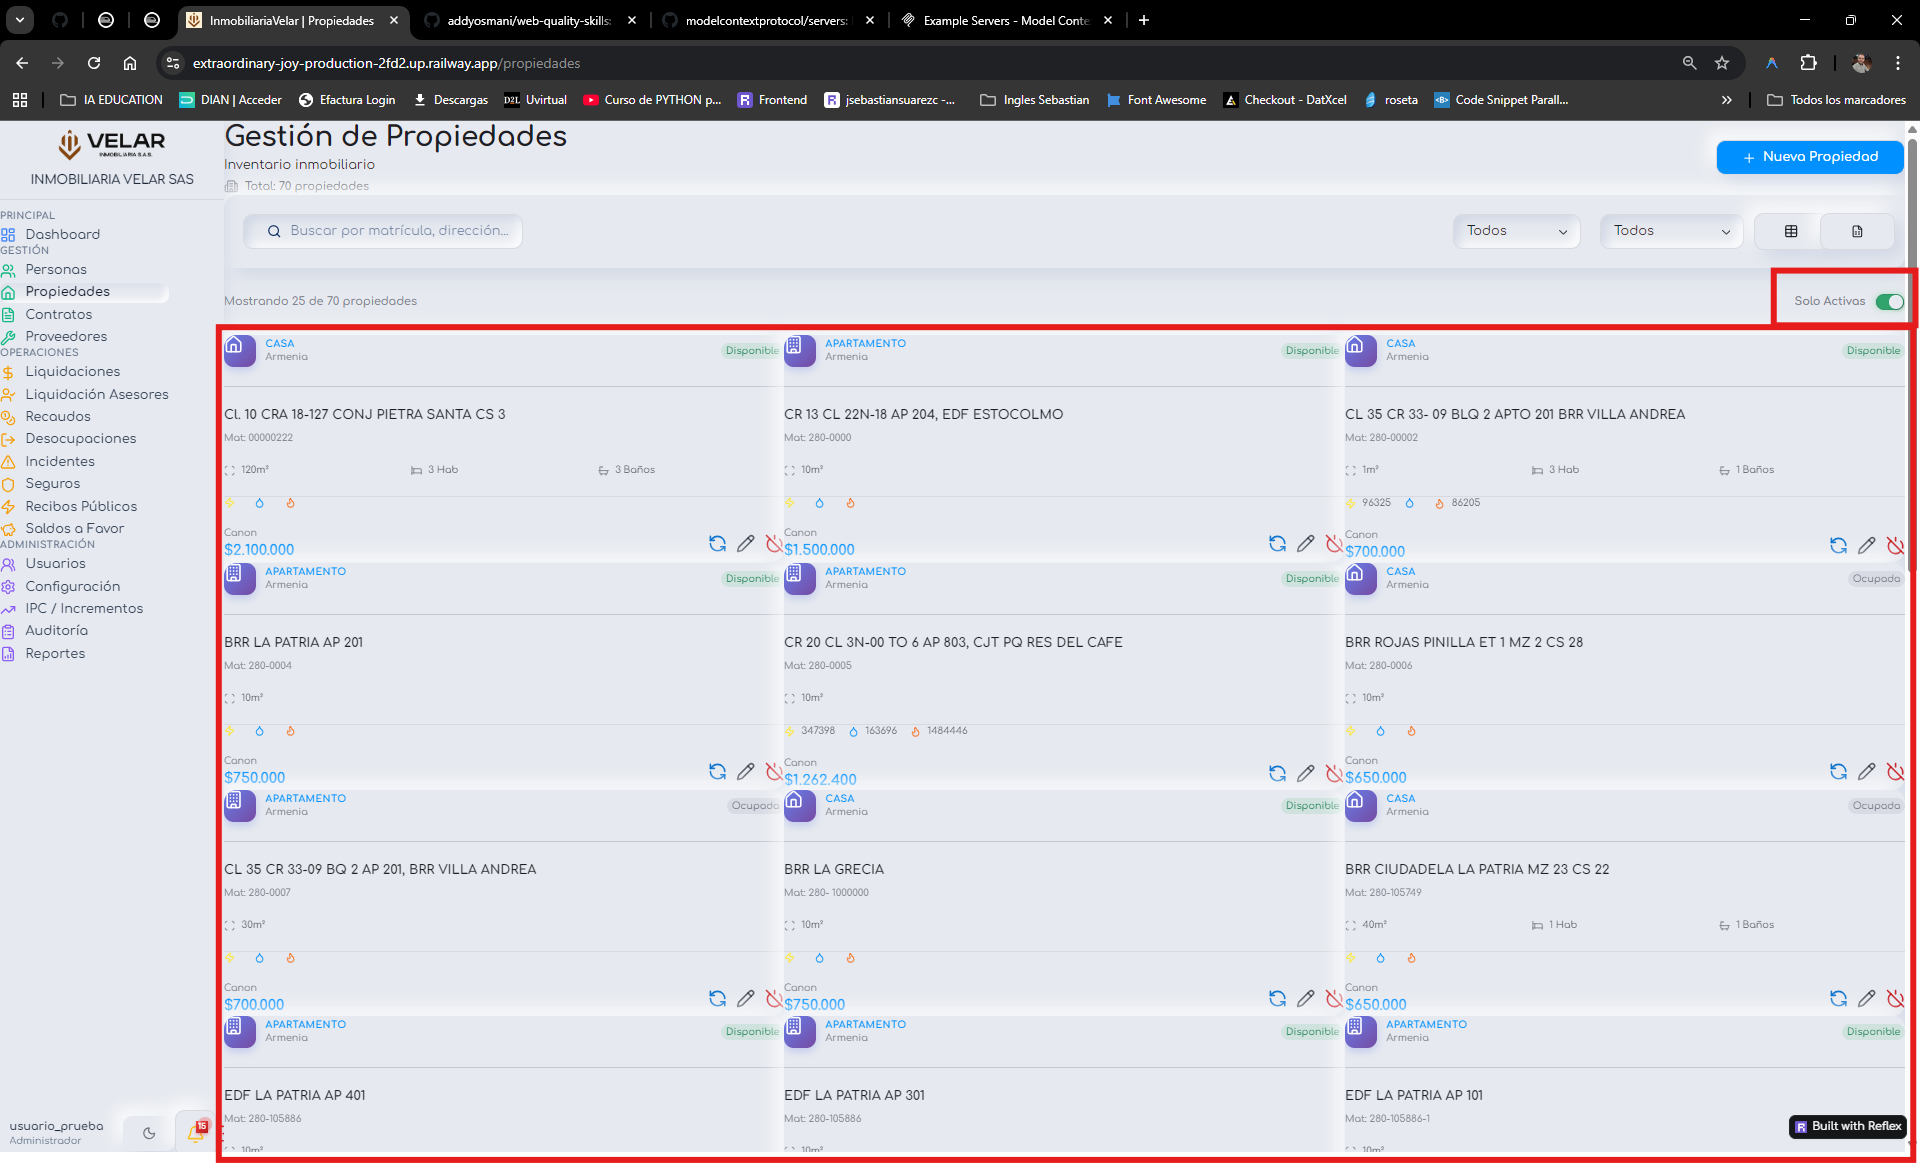
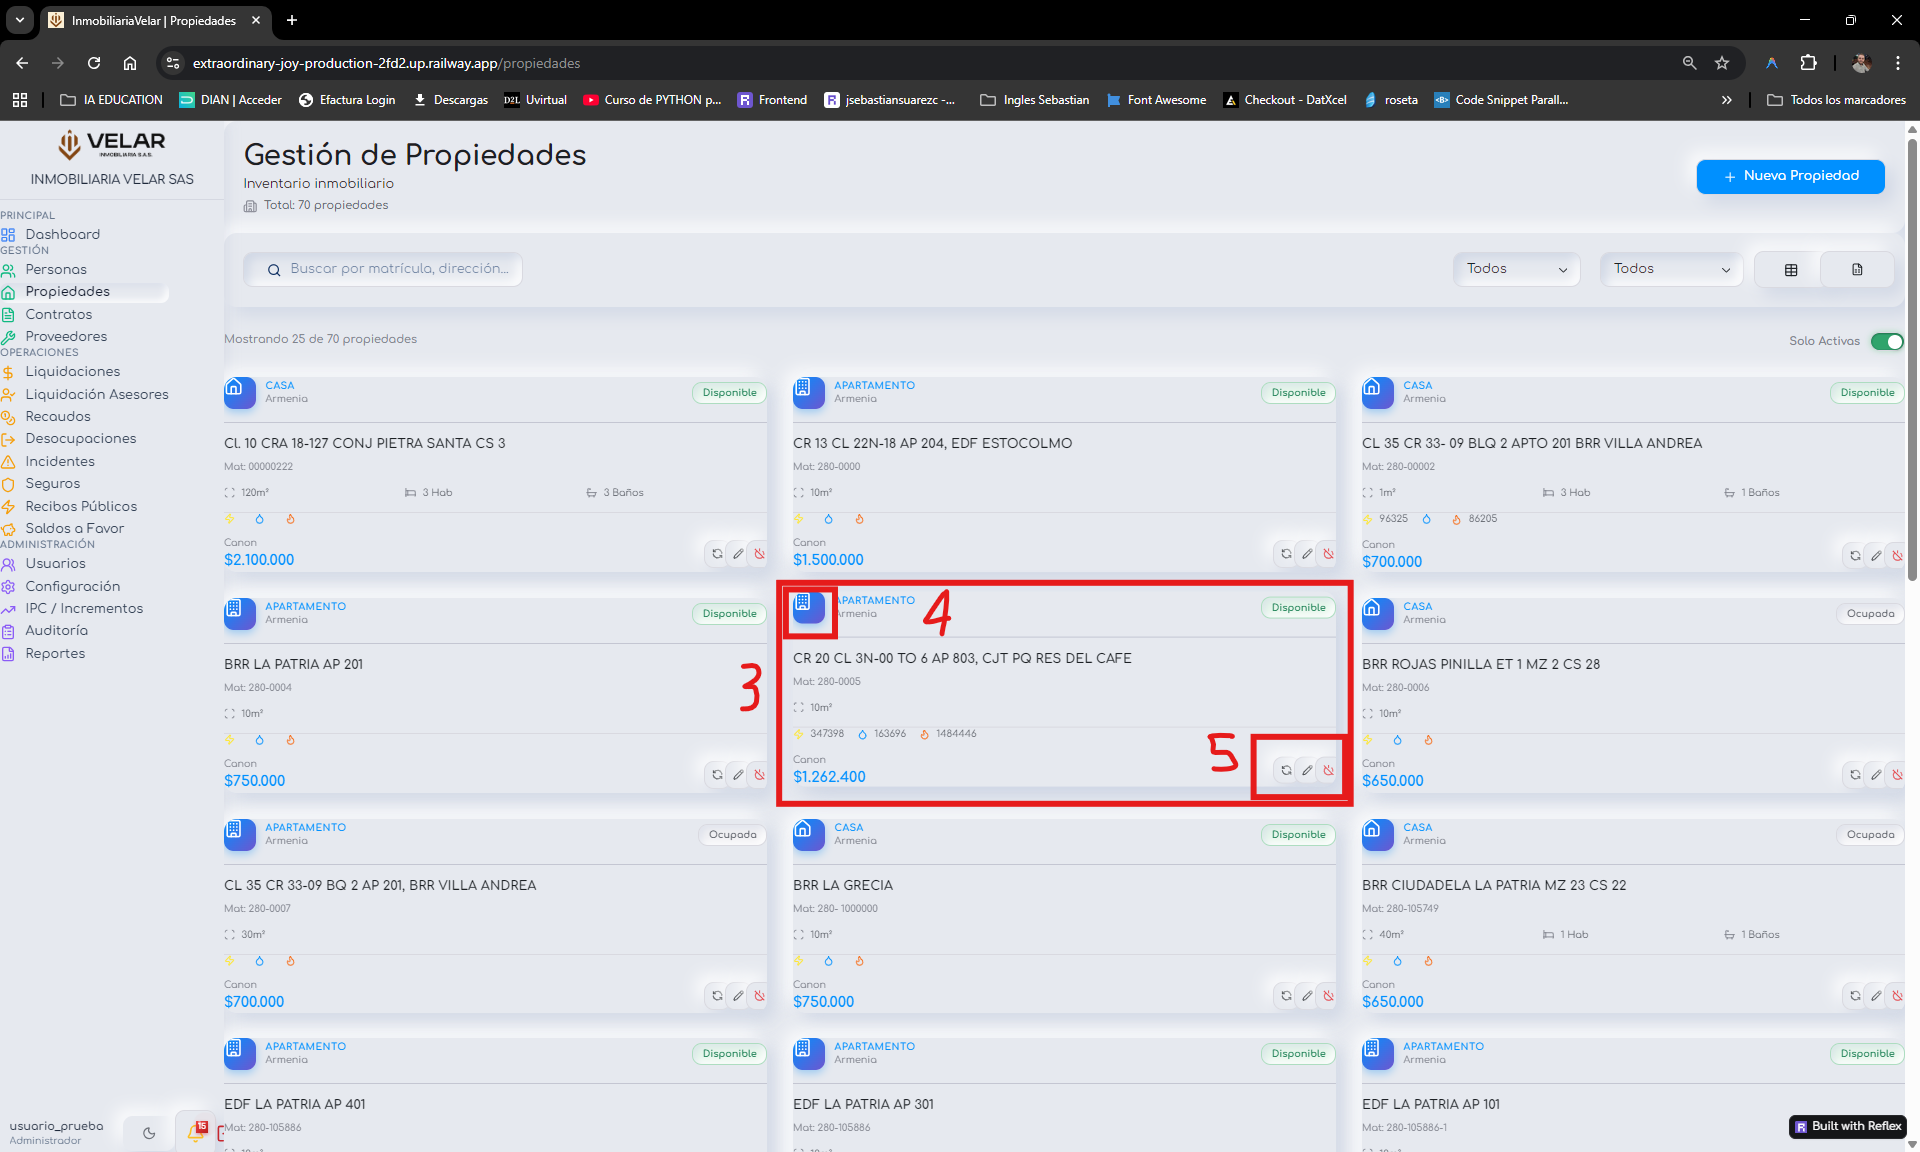
style(ui): Ajusta el espaciado y márgenes en las tarjetas principales
- Incrementa el padding y gap en los modulares de person_card y property_card para mejorar la legilibidad y dar aire al diseño neumórfico.
- Ajusta el espacio (spacing) entre badges y botones de acción.
- Remueve padding nulo innecesario en property_card que colapsaba contenedores.

Estas modificaciones consolidan el sistema 'Neumorphism Executive' asegurando una distribución balanceada de elementos en pantalla.

diff --git a/src/presentacion_reflex/pages/personas.py b/src/presentacion_reflex/pages/personas.py
@@ -476,7 +476,7 @@ def personas_page() -> rx.Component:
                                                                 content="Eliminar persona",
                                                             ),
                                                         ),
-                                                        spacing="1",
+                                                        spacing="3",
                                                     )
                                                 ),
                                                 _hover={
@@ -513,7 +513,7 @@ def personas_page() -> rx.Component:
                                 rx.grid(
                                     rx.foreach(PersonasState.personas, person_card),
                                     columns=rx.breakpoints(initial="1", sm="1", md="2", lg="3"),
-                                    gap="5",
+                                    gap="6",
                                     width="100%",
                                     padding="4",
                                 ),

diff --git a/src/presentacion_reflex/components/propiedades/property_card.py b/src/presentacion_reflex/components/propiedades/property_card.py
@@ -321,7 +321,7 @@ def property_card(
                                     ),
                                     content=rx.cond(estado_registro, "Desactivar", "Activar"),
                                 ),
-                                spacing="2",
+                                spacing="3",
                             ),
                         ),
                     spacing="3",
@@ -330,8 +330,8 @@ def property_card(
                 align="center",
                 margin_top="4", 
             ),
-            spacing="4", 
-            padding="5", 
+            spacing="5", 
+            padding="6", 
             width="100%",
         ),
         # Elite Card Styling - Neumorphic Raised
@@ -341,7 +341,6 @@ def property_card(
         margin="auto",
         style={
             **styles.NEU_PANEL_STYLE,
-            "padding": "0",
             "transition": "all 0.4s cubic-bezier(0.2, 0.8, 0.2, 1)",
             "overflow": "hidden",
             "border": "none",

diff --git a/src/presentacion_reflex/pages/propiedades.py b/src/presentacion_reflex/pages/propiedades.py
@@ -67,7 +67,7 @@ def render_property_actions(prop: rx.Var) -> rx.Component:
                     ),
                     content=rx.cond(prop["estado_registro"], "Desactivar", "Activar"),
                 ),
-                spacing="2",
+                spacing="3",
             ),
         ),
     )
@@ -333,7 +333,7 @@ def propiedades_page() -> rx.Component:
                                             ),
                                         ),
                                         columns=rx.breakpoints(initial="1", sm="2", lg="3"),
-                                        gap="2rem",
+                                        gap="3rem",
                                         width="100%",
                                     ),
                                     # Table View (Premium)

diff --git a/src/presentacion_reflex/components/personas/person_card.py b/src/presentacion_reflex/components/personas/person_card.py
@@ -146,7 +146,7 @@ def person_card(persona: dict) -> rx.Component:
                             content="Eliminar persona",
                         ),
                     ),
-                    spacing="1",
+                    spacing="3",
                     align="center",
                 ),
                 width="100%",
